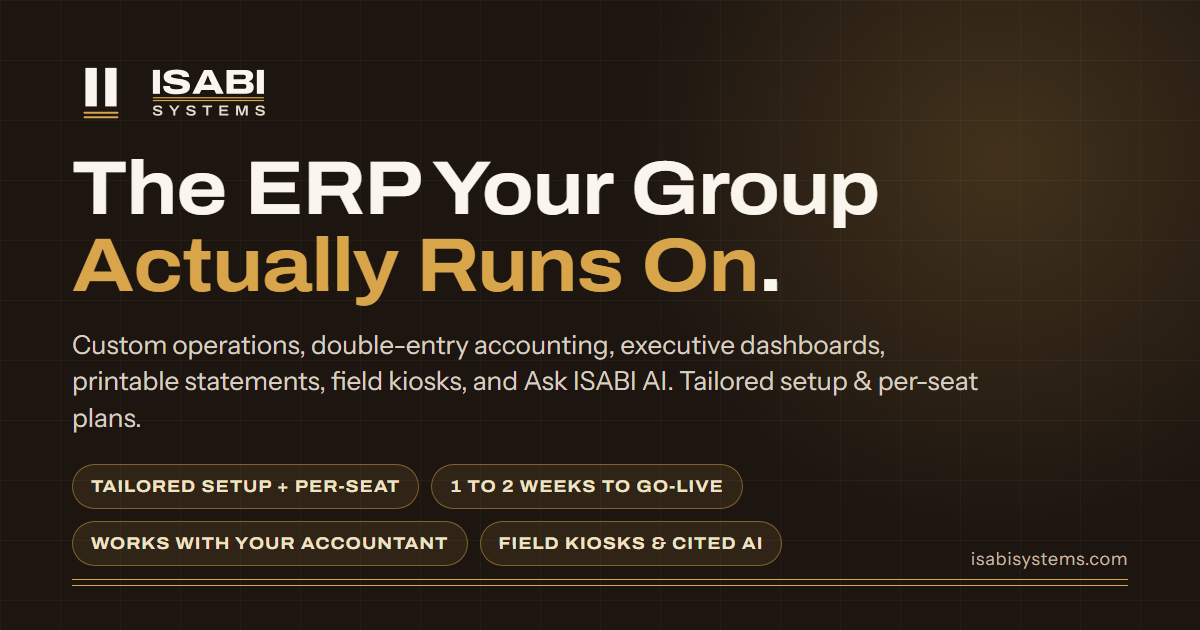
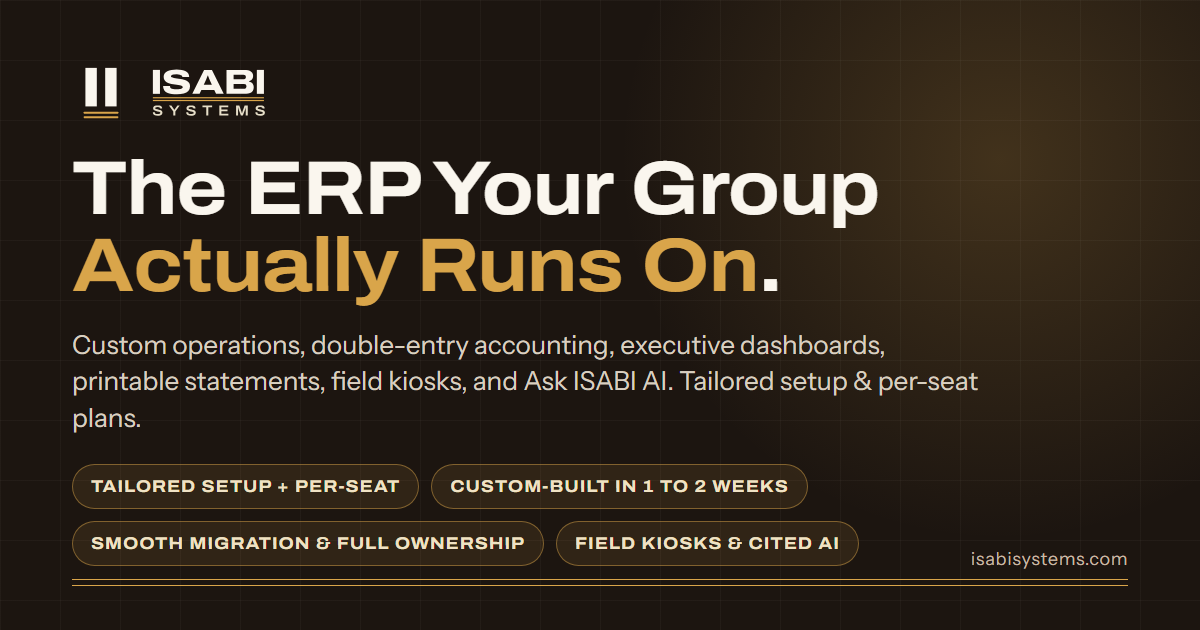
v6.14: Clarify Hero proof cards, pricing trust strip & OG chips with plain executive copy

Changed region(s): [[0.0617, 0.8444, 0.7092, 0.8746], [0.37, 0.754, 0.6783, 0.7841]]

diff --git a/index.html b/index.html
@@ -28,10 +28,10 @@
   <meta name="apple-mobile-web-app-capable" content="yes">
   <meta name="apple-mobile-web-app-status-bar-style" content="black-translucent">
   <meta name="apple-mobile-web-app-title" content="ISABI Systems">
-  <link rel="manifest" href="manifest.json?v=6.13">
-  <link rel="icon" href="icon.svg?v=6.13" type="image/svg+xml" sizes="any">
-  <link rel="icon" href="favicon.ico?v=6.13" sizes="48x48 32x32 16x16">
-  <link rel="apple-touch-icon" href="icon-180.png?v=6.13">
+  <link rel="manifest" href="manifest.json?v=6.14">
+  <link rel="icon" href="icon.svg?v=6.14" type="image/svg+xml" sizes="any">
+  <link rel="icon" href="favicon.ico?v=6.14" sizes="48x48 32x32 16x16">
+  <link rel="apple-touch-icon" href="icon-180.png?v=6.14">
   <link rel="preconnect" href="https://fonts.googleapis.com">
   <link rel="preconnect" href="https://fonts.gstatic.com" crossorigin>
   <link rel="stylesheet" href="https://fonts.googleapis.com/css2?family=Archivo:wdth,wght@112,600;112,700;125,800&family=Instrument+Sans:wght@400;500;600;700&display=swap">
@@ -50,7 +50,7 @@
     })();
   </script>
   <script type="application/ld+json">{"@context": "https://schema.org", "@type": "WebSite", "@id": "https://isabisystems.com/#website", "name": "ISABI Systems", "alternateName": ["ISABI", "ISABI ERP", "isabisystems.com"], "url": "https://isabisystems.com/", "publisher": {"@id": "https://isabisystems.com/#org"}, "inLanguage": "en"}</script>
-  <script type="application/ld+json">{"@context": "https://schema.org", "@type": "ProfessionalService", "@id": "https://isabisystems.com/#org", "name": "ISABI Systems", "url": "https://isabisystems.com/", "logo": "https://isabisystems.com/icon-512.png?v=6.13", "image": "https://isabisystems.com/og-image.png", "slogan": "The ERP Your Group Actually Runs On", "description": "Custom enterprise ERP operations, double-entry financial accounting, interactive executive dashboards, bilingual printable statements, offline-ready field kiosks, and the Ask ISABI assistant with tailored setup and simple per-seat pricing.", "email": "hbdeir16@gmail.com", "telephone": "+96170444955", "founder": {"@type": "Person", "name": "Hussein Bdeir", "jobTitle": "Founder and Principal Systems Architect"}, "areaServed": ["Lebanon", "Middle East", "Worldwide"], "address": {"@type": "PostalAddress", "addressCountry": "LB"}, "knowsAbout": ["Enterprise Resource Planning", "Multi-Entity Operations", "Executive Dashboards & Reporting", "Double-Entry Accounting", "POS & Gate Kiosks", "Automated Financial Controls"], "contactPoint": [{"@type": "ContactPoint", "contactType": "sales", "telephone": "+96170444955", "email": "hbdeir16@gmail.com", "availableLanguage": ["en"]}], "priceRange": "$3,000 to $11,000+ setup + $50 to $100/seat/mo"}</script>
+  <script type="application/ld+json">{"@context": "https://schema.org", "@type": "ProfessionalService", "@id": "https://isabisystems.com/#org", "name": "ISABI Systems", "url": "https://isabisystems.com/", "logo": "https://isabisystems.com/icon-512.png?v=6.14", "image": "https://isabisystems.com/og-image.png", "slogan": "The ERP Your Group Actually Runs On", "description": "Custom enterprise ERP operations, double-entry financial accounting, interactive executive dashboards, bilingual printable statements, offline-ready field kiosks, and the Ask ISABI assistant with tailored setup and simple per-seat pricing.", "email": "hbdeir16@gmail.com", "telephone": "+96170444955", "founder": {"@type": "Person", "name": "Hussein Bdeir", "jobTitle": "Founder and Principal Systems Architect"}, "areaServed": ["Lebanon", "Middle East", "Worldwide"], "address": {"@type": "PostalAddress", "addressCountry": "LB"}, "knowsAbout": ["Enterprise Resource Planning", "Multi-Entity Operations", "Executive Dashboards & Reporting", "Double-Entry Accounting", "POS & Gate Kiosks", "Automated Financial Controls"], "contactPoint": [{"@type": "ContactPoint", "contactType": "sales", "telephone": "+96170444955", "email": "hbdeir16@gmail.com", "availableLanguage": ["en"]}], "priceRange": "$3,000 to $11,000+ setup + $50 to $100/seat/mo"}</script>
   <script type="application/ld+json">{"@context": "https://schema.org", "@type": "FAQPage", "mainEntity": [{"@type": "Question", "name": "How do the initial custom setup fee and monthly per-seat pricing work?", "acceptedAnswer": {"@type": "Answer", "text": "Every engagement combines a one-time custom setup fee (starting at $3,000 to build and tailor your workflows, chart of accounts, dashboards, and historical Excel import) with a simple monthly per-seat fee ($50 to $100 per active user) covering cloud sync, backups, updates, and ongoing support."}}, {"@type": "Question", "name": "Who owns the system and the data?", "acceptedAnswer": {"@type": "Answer", "text": "You do. Every customer record, ledger entry, dashboard, and printable statement belongs to your company under your administrators, with full export access at any time and zero lock-in."}}, {"@type": "Question", "name": "Does our accountant have to change software?", "acceptedAnswer": {"@type": "Answer", "text": "No. Your statutory books can stay in the software your accountant already uses. ISABI runs as your daily operational and management double-entry ledger and matches your accountant's trial balance dollar for dollar every month."}}, {"@type": "Question", "name": "Can you bring in our history from Excel or an older system?", "acceptedAnswer": {"@type": "Answer", "text": "Yes. Your historical spreadsheets and exports are mapped into your chart of accounts with original document numbers and dates preserved. Old and new systems run side by side until every balance matches cleanly before cutover."}}, {"@type": "Question", "name": "What happens at our cashier till or plant gate if the internet drops?", "acceptedAnswer": {"@type": "Answer", "text": "Operations continue without interruption. Cashier tills and gate kiosks for dispatch, receiving, fuel, and staff attendance work offline, print priced tax invoices or unpriced gate passes wirelessly, and sync automatically once online."}}, {"@type": "Question", "name": "Can we start with one company and keep confidential figures isolated as we grow?", "acceptedAnswer": {"@type": "Answer", "text": "Yes. Most groups launch one operating company first and add sister entities, kiosks, or Ask ISABI later. Strict per-company and per-role permissions ensure staff and Ask ISABI only access their authorized scope."}}]}</script>
 <style>
 :root,
@@ -6567,7 +6567,7 @@ svg.ic-crit { color: var(--crit); }
           <div class="eyebrow"><svg class="ic ic-isabi-mark" viewBox="-9.5 -78.8 74.66 109.7" width="1em" height="1em" aria-hidden="true"><g fill="currentColor"><path transform="translate(-8.45,0)" d="M8.45 0V-68.75H28.81V0Z"/><path transform="translate(-10.45,0)" d="M45.75 0V-68.75H66.11V0Z"/></g><g fill="var(--wm-rule, #B88228)"><rect x="0" y="9.5" width="55.66" height="4.2"/><rect x="0" y="18.5" width="55.66" height="4.2"/></g></svg> Tailored Enterprise ERP · Live in 1 to 2 Weeks</div>
           <h1 class="hero-title">The ERP Your Group<br><span class="brass-text">Actually Runs On</span>.</h1>
           <p class="hero-lead">
-            Custom daily operations, double-entry accounting, live executive dashboards, field kiosks, and cited AI, tailored around how your business works.
+            Custom daily operations, double-entry accounting, live executive dashboards, field kiosks, and cited AI, tailored to how your business operates.
           </p>
           <div class="hero-cta-row">
             <a href="#sandbox" class="btn btn-brass"><svg class="ic" viewBox="0 0 24 24" width="1em" height="1em" fill="none" stroke="currentColor" stroke-width="2" stroke-linecap="round" stroke-linejoin="round" aria-hidden="true"><rect x="2" y="3" width="20" height="18" rx="2.5"/><line x1="2" y1="8" x2="22" y2="8"/><line x1="8" y1="8" x2="8" y2="21"/><rect x="11" y="11" width="4" height="3.5" rx="0.5"/><rect x="16.5" y="11" width="3" height="3.5" rx="0.5"/><line x1="11" y1="17.5" x2="19.5" y2="17.5"/></svg> Explore Live Demo</a>
@@ -6586,15 +6586,15 @@ svg.ic-crit { color: var(--crit); }
           <div class="hero-proof-item">
             <span class="hp-check"><svg class="ic ic-good" viewBox="0 0 24 24" width="1em" height="1em" fill="none" stroke="currentColor" stroke-width="2" stroke-linecap="round" stroke-linejoin="round" aria-hidden="true"><circle cx="12" cy="12" r="9"/><path d="m8.5 12.5 2.3 2.3 4.7-4.8"/></svg></span>
             <div>
-              <b>100% Built Around You in 1 to 2 Weeks</b>
-              <small>Shaped around your exact branches, approvals, daily operations, and chart of accounts.</small>
+              <b>Custom-Built for Your Business in 1 to 2 Weeks</b>
+              <small>Configured for your exact branches, approvals, daily workflows, and chart of accounts.</small>
             </div>
           </div>
           <div class="hero-proof-item">
             <span class="hp-check"><svg class="ic ic-good" viewBox="0 0 24 24" width="1em" height="1em" fill="none" stroke="currentColor" stroke-width="2" stroke-linecap="round" stroke-linejoin="round" aria-hidden="true"><circle cx="12" cy="12" r="9"/><path d="m8.5 12.5 2.3 2.3 4.7-4.8"/></svg></span>
             <div>
-              <b>Works With Your Accountant · 100% Your Data</b>
-              <small>Runs smoothly alongside your current accounting software while keeping every record 100% yours.</small>
+              <b>Smooth Migration &amp; Full Data Ownership</b>
+              <small>We import your spreadsheets, match balances alongside your existing books, and let you export anytime.</small>
             </div>
           </div>
         </div>
@@ -7083,10 +7083,10 @@ svg.ic-crit { color: var(--crit); }
         </div>
 
         <div class="pricing-trust-bar">
-          <span><svg class="ic ic-good" viewBox="0 0 24 24" width="1em" height="1em" fill="none" stroke="currentColor" stroke-width="2" stroke-linecap="round" stroke-linejoin="round" aria-hidden="true"><circle cx="12" cy="12" r="9"/><path d="m8.5 12.5 2.3 2.3 4.7-4.8"/></svg> <b>From $3,000 Setup</b> · Tailored Around Your Workflow</span>
+          <span><svg class="ic ic-good" viewBox="0 0 24 24" width="1em" height="1em" fill="none" stroke="currentColor" stroke-width="2" stroke-linecap="round" stroke-linejoin="round" aria-hidden="true"><circle cx="12" cy="12" r="9"/><path d="m8.5 12.5 2.3 2.3 4.7-4.8"/></svg> <b>From $3,000 Setup</b> · Custom-Built for Your Business</span>
           <span><svg class="ic ic-good" viewBox="0 0 24 24" width="1em" height="1em" fill="none" stroke="currentColor" stroke-width="2" stroke-linecap="round" stroke-linejoin="round" aria-hidden="true"><circle cx="12" cy="12" r="9"/><path d="m8.5 12.5 2.3 2.3 4.7-4.8"/></svg> <b>$50 to $100 / Seat / Mo</b> · Simple Per-User Pricing</span>
-          <span><svg class="ic ic-good" viewBox="0 0 24 24" width="1em" height="1em" fill="none" stroke="currentColor" stroke-width="2" stroke-linecap="round" stroke-linejoin="round" aria-hidden="true"><circle cx="12" cy="12" r="9"/><path d="m8.5 12.5 2.3 2.3 4.7-4.8"/></svg> <b>Accountant-Ready</b> · Verified Side-by-Side Before Go-Live</span>
-          <span><svg class="ic ic-good" viewBox="0 0 24 24" width="1em" height="1em" fill="none" stroke="currentColor" stroke-width="2" stroke-linecap="round" stroke-linejoin="round" aria-hidden="true"><circle cx="12" cy="12" r="9"/><path d="m8.5 12.5 2.3 2.3 4.7-4.8"/></svg> <b>100% Data Ownership</b> · Direct Principal Delivery</span>
+          <span><svg class="ic ic-good" viewBox="0 0 24 24" width="1em" height="1em" fill="none" stroke="currentColor" stroke-width="2" stroke-linecap="round" stroke-linejoin="round" aria-hidden="true"><circle cx="12" cy="12" r="9"/><path d="m8.5 12.5 2.3 2.3 4.7-4.8"/></svg> <b>Side-by-Side Cutover</b> · Verified Balances Before Go-Live</span>
+          <span><svg class="ic ic-good" viewBox="0 0 24 24" width="1em" height="1em" fill="none" stroke="currentColor" stroke-width="2" stroke-linecap="round" stroke-linejoin="round" aria-hidden="true"><circle cx="12" cy="12" r="9"/><path d="m8.5 12.5 2.3 2.3 4.7-4.8"/></svg> <b>Full Data Ownership</b> · Direct Principal Delivery</span>
         </div>
       </div>
 
@@ -8094,7 +8094,7 @@ svg.ic-crit { color: var(--crit); }
     {
       id: 'bridge', cat: 'finance', emoji: ICONS.scale, tone: 'tone-teal',
       name: 'Accountant Book Bridge', sub: 'Side-by-Side Accounting Sync',
-      kicker: 'Safe Transition · Works With Your Accountant',
+      kicker: 'Safe Transition · Side-by-Side Balance Verification',
       desc: 'Runs alongside your existing accounting software during onboarding and compares every account line-by-line until every balance matches cleanly.',
       bullets: [
         ICONS.sync + ' Imports monthly trial balances from legacy accounting registers',

diff --git a/sw.js b/sw.js
@@ -1,14 +1,14 @@
-const CACHE_NAME = 'isabi-systems-pwa-v6.13';
+const CACHE_NAME = 'isabi-systems-pwa-v6.14';
 const ASSETS = [
   './',
   './index.html',
-  './manifest.json?v=6.13',
-  './favicon.ico?v=6.13',
-  './icon.svg?v=6.13',
-  './icon-180.png?v=6.13',
-  './icon-192.png?v=6.13',
-  './icon-512.png?v=6.13',
-  './icon-512-maskable.png?v=6.13'
+  './manifest.json?v=6.14',
+  './favicon.ico?v=6.14',
+  './icon.svg?v=6.14',
+  './icon-180.png?v=6.14',
+  './icon-192.png?v=6.14',
+  './icon-512.png?v=6.14',
+  './icon-512-maskable.png?v=6.14'
 ];
 
 self.addEventListener('install', event => {

diff --git a/build/part_body.py b/build/part_body.py
@@ -63,7 +63,7 @@ BODY = f"""
           <div class="eyebrow">{ICONS["ai_mark"]} Tailored Enterprise ERP · Live in 1 to 2 Weeks</div>
           <h1 class="hero-title">The ERP Your Group<br><span class="brass-text">Actually Runs On</span>.</h1>
           <p class="hero-lead">
-            Custom daily operations, double-entry accounting, live executive dashboards, field kiosks, and cited AI, tailored around how your business works.
+            Custom daily operations, double-entry accounting, live executive dashboards, field kiosks, and cited AI, tailored to how your business operates.
           </p>
           <div class="hero-cta-row">
             <a href="#sandbox" class="btn btn-brass">{ICONS["erp"]} Explore Live Demo</a>
@@ -82,15 +82,15 @@ BODY = f"""
           <div class="hero-proof-item">
             <span class="hp-check">{ICONS["check"]}</span>
             <div>
-              <b>100% Built Around You in 1 to 2 Weeks</b>
-              <small>Shaped around your exact branches, approvals, daily operations, and chart of accounts.</small>
+              <b>Custom-Built for Your Business in 1 to 2 Weeks</b>
+              <small>Configured for your exact branches, approvals, daily workflows, and chart of accounts.</small>
             </div>
           </div>
           <div class="hero-proof-item">
             <span class="hp-check">{ICONS["check"]}</span>
             <div>
-              <b>Works With Your Accountant · 100% Your Data</b>
-              <small>Runs smoothly alongside your current accounting software while keeping every record 100% yours.</small>
+              <b>Smooth Migration &amp; Full Data Ownership</b>
+              <small>We import your spreadsheets, match balances alongside your existing books, and let you export anytime.</small>
             </div>
           </div>
         </div>
@@ -548,10 +548,10 @@ BODY = f"""
         </div>
 
         <div class="pricing-trust-bar">
-          <span>{ICONS["check"]} <b>From $3,000 Setup</b> · Tailored Around Your Workflow</span>
+          <span>{ICONS["check"]} <b>From $3,000 Setup</b> · Custom-Built for Your Business</span>
           <span>{ICONS["check"]} <b>$50 to $100 / Seat / Mo</b> · Simple Per-User Pricing</span>
-          <span>{ICONS["check"]} <b>Accountant-Ready</b> · Verified Side-by-Side Before Go-Live</span>
-          <span>{ICONS["check"]} <b>100% Data Ownership</b> · Direct Principal Delivery</span>
+          <span>{ICONS["check"]} <b>Side-by-Side Cutover</b> · Verified Balances Before Go-Live</span>
+          <span>{ICONS["check"]} <b>Full Data Ownership</b> · Direct Principal Delivery</span>
         </div>
       </div>
 

diff --git a/build/assemble.py b/build/assemble.py
@@ -43,10 +43,10 @@ HEAD = """<!DOCTYPE html>
   <meta name="apple-mobile-web-app-capable" content="yes">
   <meta name="apple-mobile-web-app-status-bar-style" content="black-translucent">
   <meta name="apple-mobile-web-app-title" content="ISABI Systems">
-  <link rel="manifest" href="manifest.json?v=6.13">
-  <link rel="icon" href="icon.svg?v=6.13" type="image/svg+xml" sizes="any">
-  <link rel="icon" href="favicon.ico?v=6.13" sizes="48x48 32x32 16x16">
-  <link rel="apple-touch-icon" href="icon-180.png?v=6.13">
+  <link rel="manifest" href="manifest.json?v=6.14">
+  <link rel="icon" href="icon.svg?v=6.14" type="image/svg+xml" sizes="any">
+  <link rel="icon" href="favicon.ico?v=6.14" sizes="48x48 32x32 16x16">
+  <link rel="apple-touch-icon" href="icon-180.png?v=6.14">
   <link rel="preconnect" href="https://fonts.googleapis.com">
   <link rel="preconnect" href="https://fonts.gstatic.com" crossorigin>
   <link rel="stylesheet" href="https://fonts.googleapis.com/css2?family=Archivo:wdth,wght@112,600;112,700;125,800&family=Instrument+Sans:wght@400;500;600;700&display=swap">
@@ -86,7 +86,7 @@ ORG_JSONLD = _json.dumps({
     "@id": "https://isabisystems.com/#org",
     "name": "ISABI Systems",
     "url": "https://isabisystems.com/",
-    "logo": "https://isabisystems.com/icon-512.png?v=6.13",
+    "logo": "https://isabisystems.com/icon-512.png?v=6.14",
     "image": "https://isabisystems.com/og-image.png",
     "slogan": "The ERP Your Group Actually Runs On",
     "description": "Custom enterprise ERP operations, double-entry financial accounting, interactive executive dashboards, bilingual printable statements, offline-ready field kiosks, and the Ask ISABI assistant with tailored setup and simple per-seat pricing.",

diff --git a/build/part_script.py b/build/part_script.py
@@ -650,7 +650,7 @@ JS = r"""
     {
       id: 'bridge', cat: 'finance', emoji: ICONS.scale, tone: 'tone-teal',
       name: 'Accountant Book Bridge', sub: 'Side-by-Side Accounting Sync',
-      kicker: 'Safe Transition · Works With Your Accountant',
+      kicker: 'Safe Transition · Side-by-Side Balance Verification',
       desc: 'Runs alongside your existing accounting software during onboarding and compares every account line-by-line until every balance matches cleanly.',
       bullets: [
         ICONS.sync + ' Imports monthly trial balances from legacy accounting registers',

diff --git a/build/make_og.py b/build/make_og.py
@@ -65,8 +65,8 @@ HTML = f"""<!doctype html>
     </div>
     <div class="chips">
       <span class="chip">Tailored Setup + Per-Seat</span>
-      <span class="chip">1 to 2 Weeks to Go-Live</span>
-      <span class="chip">Works With Your Accountant</span>
+      <span class="chip">Custom-Built in 1 to 2 Weeks</span>
+      <span class="chip">Smooth Migration &amp; Full Ownership</span>
       <span class="chip">Field Kiosks &amp; Cited AI</span>
     </div>
   </div>
